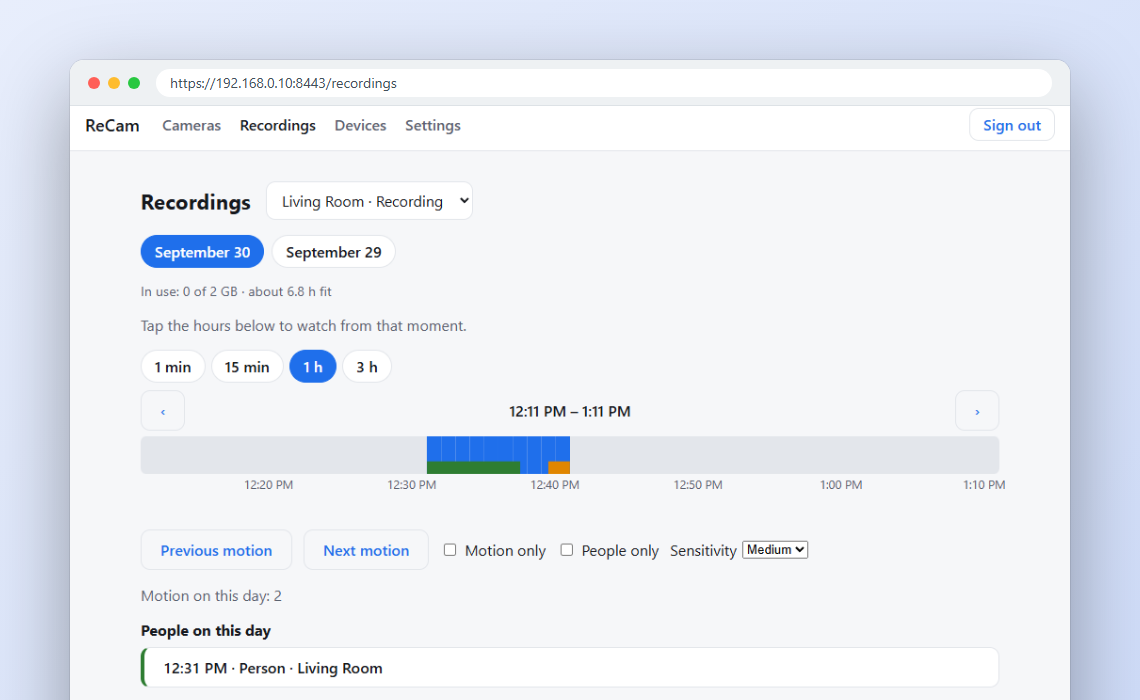
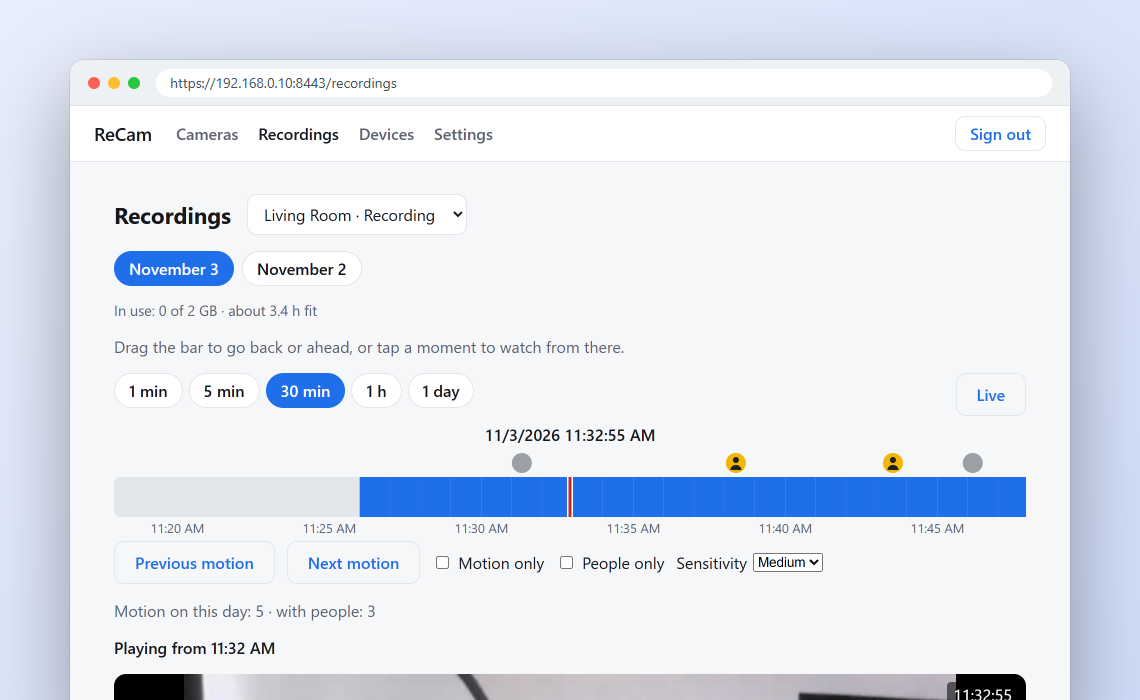
docs: update the README and its screenshots for the mosaic and the new timeline

diff --git a/server/tests/Recam.Web.Tests/Cameras/CameraListTests.cs b/server/tests/Recam.Web.Tests/Cameras/CameraListTests.cs
@@ -216,12 +216,20 @@ public sealed class CameraListTests : BunitContext
         list.WaitForAssertion(() => Assert.True(_api.ThumbnailsAsked.GetValueOrDefault(camera.Id) >= 3), TimeSpan.FromSeconds(5));
         var whileOpen = _api.ThumbnailsAsked[camera.Id];
         await DisposeComponentsAsync();
-        var afterLeaving = _api.ThumbnailsAsked[camera.Id];
-        await Task.Delay(300, Xunit.TestContext.Current.CancellationToken);
+
+        // The renderer may close the page a moment later, when it is in the middle of a render; a
+        // loop that leaked would never go quiet.
+        var quiet = false;
+        for (var tries = 0; tries < 20 && !quiet; tries++)
+        {
+            var before = _api.ThumbnailsAsked[camera.Id];
+            await Task.Delay(300, Xunit.TestContext.Current.CancellationToken);
+            quiet = _api.ThumbnailsAsked[camera.Id] == before;
+        }
 
         // assert
         Assert.True(whileOpen >= 3);
-        Assert.Equal(afterLeaving, _api.ThumbnailsAsked[camera.Id]);
+        Assert.True(quiet);
     }
 
     [Fact(DisplayName = "Watch all opens every online camera live, and Close all closes them")]

diff --git a/README.md b/README.md
@@ -26,24 +26,26 @@ Your own server, your own recordings, live in any browser.
 
 You run one `docker compose up` on a computer at home or on a VPS. You scan a QR code with the
 phone that will film. A few seconds later you watch it live in the browser. It records around
-the clock, and the recordings page tells you when a person walked by. No account, no cloud, no
-ads, no subscription.
+the clock and marks on a timeline each time a person walked by. No account, no cloud, no ads, no
+subscription.
 
 ## What you get
 
 <table>
 <tr>
 <td width="50%" valign="top">
-<img src="docs/images/mockup-cameras.png" alt="Camera list with battery, temperature and recording status">
-<h3>Live in the browser</h3>
-Video arrives in under a second on your network. Each camera shows its battery and temperature,
-and you can turn its flashlight and sound on from the live view.
+<img src="docs/images/mockup-cameras.png" alt="Two cameras side by side, each with its last picture, battery and recording status">
+<h3>All your cameras on one page</h3>
+Each camera shows its last picture, battery and temperature. Press play to watch one live, in under
+a second on your network, or <b>Watch all</b> to open them together. The live view has the
+flashlight and the sound.
 </td>
 <td width="50%" valign="top">
-<img src="docs/images/mockup-recordings.png" alt="Recordings page with the motion timeline and the people found">
+<img src="docs/images/mockup-recordings.png" alt="Recordings page with the timeline, a red line at the moment playing, and marks for motion and people">
 <h3>Recordings with a timeline</h3>
-Tap any hour to watch from that moment. Orange marks motion, green marks people, and
-<b>People on this day</b> lists each person the server spotted. The player draws a box around them.
+Drag the bar to go back, or tap a moment to watch from there. The red line marks what you see, and
+zoom goes from 1 minute to a whole day. Yellow marks show people, grey marks show other motion. Tap
+one to jump to it, and the player draws a box around each person.
 </td>
 </tr>
 <tr>
@@ -128,8 +130,8 @@ To see this again: docker compose exec server ./Recam.Server code
 The code works once: the first browser that types it becomes your Monitor. If you lose it, run the
 same command again.
 
-On a VPS, add a line `RECAM_HOST=` with the VPS public IP to `.env` before you start the containers, and open
-ports 8443/tcp and 8189/udp in the provider's panel. With Docker Desktop on Windows or macOS, set
+On a VPS, add a line `RECAM_HOST=` with the VPS public IP to `.env` before you start the containers,
+and open ports 8443/tcp and 8189/udp in the provider's panel. With Docker Desktop on Windows or macOS, set
 `RECAM_HOST` to the computer's network address and add `-f compose.bridge.yaml` to each
 `docker compose` command.
 
@@ -138,20 +140,20 @@ ports 8443/tcp and 8189/udp in the provider's panel. With Docker Desktop on Wind
 1. On a computer or phone in the same network, open the address the last command showed, like
    `https://192.168.0.10:8443`. The browser warns that the connection is not private, because the
    server signs its own certificate. Open the warning's details and continue to the site.
-2. Type the first-time code from the same output. This browser becomes your **Monitor** and shows an **Add camera** QR
-   code.
+2. Type the first-time code from the same output. This browser becomes your **Monitor** and shows
+   an **Add camera** QR code.
 3. On the phone that will film, open this page, download the APK from
    [Releases](https://github.com/jpemendonca/ReCam/releases/latest) and install it. Open the ReCam
    app, tap **Scan QR code** and scan the code on the screen. Give the camera a name.
 4. The live video opens in the browser, and the camera starts recording. Choose how much space the
    recordings may take; ReCam deletes the oldest when it fills up. You can switch the phone's
    flashlight from the live view.
-5. When someone walks in front of the camera, the recordings page lists them under **People on
-   this day** a minute or two later, and the player draws a box around each person.
+5. When someone walks in front of the camera, a yellow mark with a person icon appears above the
+   recordings bar a minute or two later. Tap it to watch; the player draws a box around each person.
 
 To watch from another phone, install the app there and use **Add Monitor** in the browser. To
-watch from another browser, use **Add Monitor › In a browser** and open the link it shows in the other browser, or scan
-the QR code with a phone's camera.
+watch from another browser, use **Add Monitor › In a browser** and open the link it shows there, or
+scan the QR code with a phone's camera.
 
 To get the padlock without the warning, put a reverse proxy in front:
 [docs/reverse-proxy.md](docs/reverse-proxy.md).
@@ -195,8 +197,8 @@ To get the padlock without the warning, put a reverse proxy in front:
   in the firewall (above). The **Diagnostics** button under the video shows what your browser
   receives.
 
-- **Nobody shows up under People on this day.** ReCam looks for people only in cameras that record,
-  and only in the seconds with motion. Check the log:
+- **No yellow marks on the recordings bar.** ReCam looks for people only in cameras that record, and
+  only in the seconds with motion. Check the log:
 
   ```bash
   sudo docker compose logs detect

diff --git a/ROADMAP.md b/ROADMAP.md
@@ -2873,6 +2873,10 @@ Decisões da conversa:
   > ▶ abrindo e fechando sozinho, "Assistir todas" sem a câmera offline, timer parando ao sair) e
   > controller (só pede de novo quando algo muda; mantém a imagem na falha). Falta: conferir no
   > navegador com duas câmeras.
+  > Nota (2026-11-03): o teste do timer falhou uma vez no gate, lendo o contador logo depois de
+  > fechar a página; o bUnit pode adiar o fechamento durante uma renderização. Não repetiu em 30
+  > rodadas sob carga. O teste agora exige que os pedidos parem depois de fechar, em vez de pararem
+  > no mesmo instante.
 
 - [ ] **13.3 [aparelho] Mosaico no app**
   - Escopo: a aba Monitor do app ganha a mesma grade da 13.2, com a mesma atualização e o mesmo
@@ -2960,7 +2964,7 @@ Decisões da conversa:
   > a hora certa acima da barra, pessoa com ícone tocando, filtro, resumos). Falta: conferir no
   > navegador e no app com um dia de movimento e pessoas.
 
-- [ ] **13.7 Tracinho visível na barra do tempo, e outro seguindo o mouse**
+- [x] **13.7 Tracinho visível na barra do tempo, e outro seguindo o mouse**
   - Origem: teste do autor em 2026-11-03. Olhando a barra, não dá para saber em que ponto da
     gravação o vídeo está nem onde o clique vai cair. A linha do meio é vermelha, e o minuto que toca
     também é pintado de vermelho, então ela some.
@@ -2981,6 +2985,12 @@ Decisões da conversa:
   > esconde a linha fina. Testes: bUnit (linha e hora aparecem e somem, faixa só com a classe
   > `recorded`) e o `timeline.js` no Node (mouse, saída, dedo sem aviso, arraste escondendo). Não foi
   > visto num navegador de verdade. Falta: conferir com um vídeo tocando.
+  > Validação (2026-11-03): rodado no Chrome, com a imagem de produção num container temporário, duas
+  > câmeras de exemplo e um vídeo tocando. O tracinho do mouse apareceu com a hora, a hora acompanhou
+  > a barra por 6 s com o mouse parado e ele sumiu durante o arraste. Um toque a um quarto da barra
+  > voltou 7,5 min e o vídeo tocou dali; arrastar e soltar também. A tela do mosaico abriu com as duas
+  > imagens e horários, e os eventos saíram na posição certa. Falta ver a 13.2 a 13.6 com câmeras de
+  > verdade (ao vivo do ▶ e do "Assistir todas", dedo na largura de celular, app no celular).
 
 ## Fora da fila (anotado, não executar)
 

diff --git a/AGENTS.md b/AGENTS.md
@@ -102,8 +102,8 @@ Regras do domínio:
 - O .NET não processa vídeo. Ele repassa só a sinalização WHIP/WHEP (HTTP com SDP). Pacotes
   RTP vão direto entre os celulares e o MediaMTX. Cifrar e decifrar os arquivos gravados, byte a
   byte, não conta como processar vídeo (bullet 9.13). A regra vale para o `Recam.Server`: o
-  serviço opcional `detect` (`Recam.Detect`, bullet 12.1, só na branch da Fase 12) lê quadros das
-  gravações num container à parte, sem rede, e o servidor só lê o resultado.
+  serviço `detect` (`Recam.Detect`, bullet 12.1) lê quadros das gravações num container à parte,
+  sem rede, e o servidor só lê o resultado.
 - O app no modo câmera não grava nem guarda imagem ou vídeo no aparelho.
 - O app só fala com o servidor que o usuário pareou. Sem analytics, sem crash reporting de
   terceiros, sem anúncio, sem chamada de rede para outro destino.
@@ -150,8 +150,10 @@ server/
   Directory.Build.props
   src/Recam.Server/  Program.cs, Domain/, Infrastructure/, Features/<Feature>/
   src/Recam.Web/     Monitor no navegador (Blazor WebAssembly), servido pelo Recam.Server
+  src/Recam.Detect/  serviço que acha pessoas nas gravações (container à parte, sem rede)
   tests/Recam.Server.Tests/
   tests/Recam.Web.Tests/
+  tests/Recam.Detect.Tests/
 app/
   lib/core/          rede, pareamento, armazenamento, abstrações de plugin
   lib/camera/        aba Câmera
